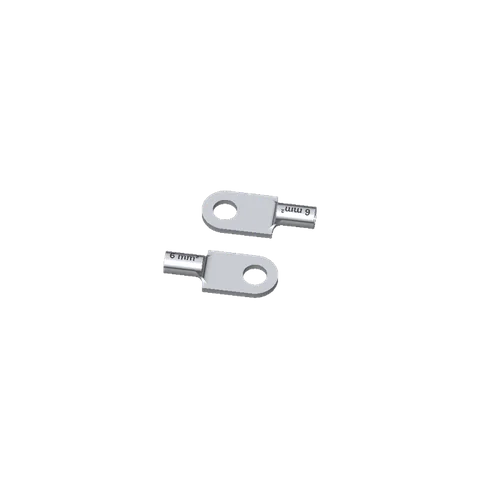
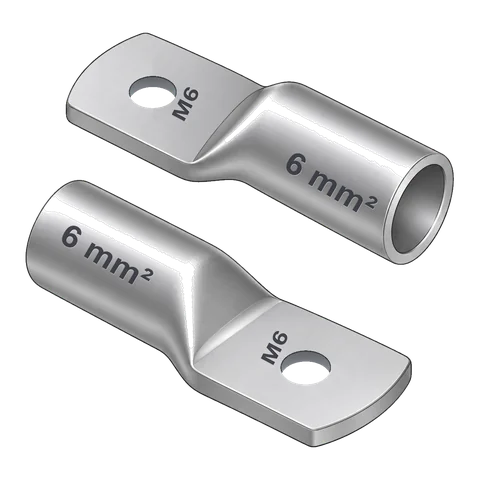
Einkaufsliste: alte Kabelschuh-Form zurück, Loch je Bolzen, Querschnitt auf der Hülse, Bolzen neben dem Loch

diff --git a/einkaufsliste.html b/einkaufsliste.html
@@ -122,7 +122,7 @@
         <div class="wrap">
           <h2>Kabelschuhe &amp; Aderendhülsen</h2><p class="gruppe-text">Passend zu Querschnitt und Bolzengröße.</p>
           <div class="teile-grid">
-            <article class="teil" id="l0ee8b057"><div class="teil-bild"><img src="assets/teile/l0ee8b057.webp?v=921984f3" alt="Kabelschuh 1 mm² M8, isoliert (Symbolbild)" width="480" height="480" loading="lazy"><span>Symbolbild</span></div><h3>Kabelschuh 1 mm² M8, isoliert</h3><a class="product-btn" href="/go/l0ee8b057/amazon" target="_blank" rel="sponsored noopener">Bei Amazon ansehen*</a></article><article class="teil" id="l9c895e29"><div class="teil-bild"><img src="assets/teile/l9c895e29.webp?v=3b521740" alt="Kabelschuh 1,5 mm² Aderendhülse (Symbolbild)" width="480" height="480" loading="lazy"><span>Symbolbild</span></div><h3>Kabelschuh 1,5 mm² Aderendhülse</h3><a class="product-btn" href="/go/l9c895e29/amazon" target="_blank" rel="sponsored noopener">Bei Amazon ansehen*</a></article><article class="teil" id="ld158f763"><div class="teil-bild"><img src="assets/teile/ld158f763.webp?v=8645e7e8" alt="Kabelschuh 2,5 mm² Aderendhülse (Symbolbild)" width="480" height="480" loading="lazy"><span>Symbolbild</span></div><h3>Kabelschuh 2,5 mm² Aderendhülse</h3><a class="product-btn" href="/go/ld158f763/amazon" target="_blank" rel="sponsored noopener">Bei Amazon ansehen*</a></article><article class="teil" id="ldd794bec"><div class="teil-bild"><img src="assets/teile/ldd794bec.webp?v=787876a4" alt="Kabelschuh 4 mm² Aderendhülse (Symbolbild)" width="480" height="480" loading="lazy"><span>Symbolbild</span></div><h3>Kabelschuh 4 mm² Aderendhülse</h3><a class="product-btn" href="/go/ldd794bec/amazon" target="_blank" rel="sponsored noopener">Bei Amazon ansehen*</a></article><article class="teil" id="leb878ae2"><div class="teil-bild"><img src="assets/teile/leb878ae2.webp?v=19616eb6" alt="Kabelschuh 4 mm² M6 (Symbolbild)" width="480" height="480" loading="lazy"><span>Symbolbild</span></div><h3>Kabelschuh 4 mm² M6</h3><a class="product-btn" href="/go/leb878ae2/amazon" target="_blank" rel="sponsored noopener">Bei Amazon ansehen*</a></article><article class="teil" id="lfa4b1c29"><div class="teil-bild"><img src="assets/teile/lfa4b1c29.webp?v=134d515b" alt="Kabelschuh 4 mm² M8 (Symbolbild)" width="480" height="480" loading="lazy"><span>Symbolbild</span></div><h3>Kabelschuh 4 mm² M8</h3><a class="product-btn" href="/go/lfa4b1c29/amazon" target="_blank" rel="sponsored noopener">Bei Amazon ansehen*</a></article><article class="teil" id="l44b7245e"><div class="teil-bild"><img src="assets/teile/l44b7245e.webp?v=ea3b9699" alt="Kabelschuh 6 mm² Aderendhülse (Symbolbild)" width="480" height="480" loading="lazy"><span>Symbolbild</span></div><h3>Kabelschuh 6 mm² Aderendhülse</h3><a class="product-btn" href="/go/l44b7245e/amazon" target="_blank" rel="sponsored noopener">Bei Amazon ansehen*</a></article><article class="teil" id="l86516439"><div class="teil-bild"><img src="assets/teile/l86516439.webp?v=95c2dc39" alt="Kabelschuh 6 mm² M6 (Symbolbild)" width="480" height="480" loading="lazy"><span>Symbolbild</span></div><h3>Kabelschuh 6 mm² M6</h3><a class="product-btn" href="/go/l86516439/amazon" target="_blank" rel="sponsored noopener">Bei Amazon ansehen*</a></article><article class="teil" id="l71398a24"><div class="teil-bild"><img src="assets/teile/l71398a24.webp?v=6ce5a287" alt="Kabelschuh 6 mm² M8 (Symbolbild)" width="480" height="480" loading="lazy"><span>Symbolbild</span></div><h3>Kabelschuh 6 mm² M8</h3><a class="product-btn" href="/go/l71398a24/amazon" target="_blank" rel="sponsored noopener">Bei Amazon ansehen*</a></article><article class="teil" id="la7ef4dd4"><div class="teil-bild"><img src="assets/teile/la7ef4dd4.webp?v=8645e7e8" alt="Kabelschuh 16 mm² Aderendhülse (Symbolbild)" width="480" height="480" loading="lazy"><span>Symbolbild</span></div><h3>Kabelschuh 16 mm² Aderendhülse</h3><a class="product-btn" href="/go/la7ef4dd4/amazon" target="_blank" rel="sponsored noopener">Bei Amazon ansehen*</a></article><article class="teil" id="l122732b5"><div class="teil-bild"><img src="assets/teile/l122732b5.webp?v=6f321cc4" alt="Kabelschuh 16 mm² M6 (Symbolbild)" width="480" height="480" loading="lazy"><span>Symbolbild</span></div><h3>Kabelschuh 16 mm² M6</h3><a class="product-btn" href="/go/l122732b5/amazon" target="_blank" rel="sponsored noopener">Bei Amazon ansehen*</a></article><article class="teil" id="l45be236d"><div class="teil-bild"><img src="assets/teile/l45be236d.webp?v=f33efc4b" alt="Kabelschuh 16 mm² M8 (Symbolbild)" width="480" height="480" loading="lazy"><span>Symbolbild</span></div><h3>Kabelschuh 16 mm² M8</h3><a class="product-btn" href="/go/l45be236d/amazon" target="_blank" rel="sponsored noopener">Bei Amazon ansehen*</a></article><article class="teil" id="l443b8965"><div class="teil-bild"><img src="assets/teile/l443b8965.webp?v=ba0e0cfc" alt="Kabelschuh 16 mm² Stiftkabelschuh (Symbolbild)" width="480" height="480" loading="lazy"><span>Symbolbild</span></div><h3>Kabelschuh 16 mm² Stiftkabelschuh</h3><a class="product-btn" href="/go/l443b8965/amazon" target="_blank" rel="sponsored noopener">Bei Amazon ansehen*</a></article><article class="teil" id="l97affb2a"><div class="teil-bild"><img src="assets/teile/l97affb2a.webp?v=f1c2fdc2" alt="Kabelschuh 25 mm² M8 (Symbolbild)" width="480" height="480" loading="lazy"><span>Symbolbild</span></div><h3>Kabelschuh 25 mm² M8</h3><a class="product-btn" href="/go/l97affb2a/amazon" target="_blank" rel="sponsored noopener">Bei Amazon ansehen*</a></article><article class="teil" id="l3556a69f"><div class="teil-bild"><img src="assets/teile/l3556a69f.webp?v=158de4ce" alt="Kabelschuh 25 mm² M10 (Symbolbild)" width="480" height="480" loading="lazy"><span>Symbolbild</span></div><h3>Kabelschuh 25 mm² M10</h3><a class="product-btn" href="/go/l3556a69f/amazon" target="_blank" rel="sponsored noopener">Bei Amazon ansehen*</a></article><article class="teil" id="lce919ae8"><div class="teil-bild"><img src="assets/teile/lce919ae8.webp?v=311e4a7d" alt="Kabelschuh 35 mm² M6 (Symbolbild)" width="480" height="480" loading="lazy"><span>Symbolbild</span></div><h3>Kabelschuh 35 mm² M6</h3><a class="product-btn" href="/go/lce919ae8/amazon" target="_blank" rel="sponsored noopener">Bei Amazon ansehen*</a></article><article class="teil" id="le192f96b"><div class="teil-bild"><img src="assets/teile/le192f96b.webp?v=9f1d815d" alt="Kabelschuh 35 mm² M8 (Symbolbild)" width="480" height="480" loading="lazy"><span>Symbolbild</span></div><h3>Kabelschuh 35 mm² M8</h3><a class="product-btn" href="/go/le192f96b/amazon" target="_blank" rel="sponsored noopener">Bei Amazon ansehen*</a></article><article class="teil" id="l474d6610"><div class="teil-bild"><img src="assets/teile/l474d6610.webp?v=f4257978" alt="Kabelschuh 35 mm² M10 (Symbolbild)" width="480" height="480" loading="lazy"><span>Symbolbild</span></div><h3>Kabelschuh 35 mm² M10</h3><a class="product-btn" href="/go/l474d6610/amazon" target="_blank" rel="sponsored noopener">Bei Amazon ansehen*</a></article><article class="teil" id="la0077ab2"><div class="teil-bild"><img src="assets/teile/la0077ab2.webp?v=837d9946" alt="Kabelschuh 70 mm² M8 (Symbolbild)" width="480" height="480" loading="lazy"><span>Symbolbild</span></div><h3>Kabelschuh 70 mm² M8</h3><a class="product-btn" href="/go/la0077ab2/amazon" target="_blank" rel="sponsored noopener">Bei Amazon ansehen*</a></article><article class="teil" id="lb5de46aa"><div class="teil-bild"><img src="assets/teile/lb5de46aa.webp?v=7286c58c" alt="Kabelschuh 70 mm² M10 (Symbolbild)" width="480" height="480" loading="lazy"><span>Symbolbild</span></div><h3>Kabelschuh 70 mm² M10</h3><a class="product-btn" href="/go/lb5de46aa/amazon" target="_blank" rel="sponsored noopener">Bei Amazon ansehen*</a></article><article class="teil" id="laf90c26b"><div class="teil-bild"><img src="assets/teile/laf90c26b.webp?v=3f0a53d4" alt="Kabelschuh 95 mm² M8 (Symbolbild)" width="480" height="480" loading="lazy"><span>Symbolbild</span></div><h3>Kabelschuh 95 mm² M8</h3><a class="product-btn" href="/go/laf90c26b/amazon" target="_blank" rel="sponsored noopener">Bei Amazon ansehen*</a></article><article class="teil" id="lb65222f0"><div class="teil-bild"><img src="assets/teile/lb65222f0.webp?v=a2dbddd0" alt="Kabelschuh 95 mm² M10 (Symbolbild)" width="480" height="480" loading="lazy"><span>Symbolbild</span></div><h3>Kabelschuh 95 mm² M10</h3><a class="product-btn" href="/go/lb65222f0/amazon" target="_blank" rel="sponsored noopener">Bei Amazon ansehen*</a></article>
+            <article class="teil" id="l0ee8b057"><div class="teil-bild"><img src="assets/teile/l0ee8b057.webp?v=921984f3" alt="Kabelschuh 1 mm² M8, isoliert (Symbolbild)" width="480" height="480" loading="lazy"><span>Symbolbild</span></div><h3>Kabelschuh 1 mm² M8, isoliert</h3><a class="product-btn" href="/go/l0ee8b057/amazon" target="_blank" rel="sponsored noopener">Bei Amazon ansehen*</a></article><article class="teil" id="l9c895e29"><div class="teil-bild"><img src="assets/teile/l9c895e29.webp?v=3b521740" alt="Kabelschuh 1,5 mm² Aderendhülse (Symbolbild)" width="480" height="480" loading="lazy"><span>Symbolbild</span></div><h3>Kabelschuh 1,5 mm² Aderendhülse</h3><a class="product-btn" href="/go/l9c895e29/amazon" target="_blank" rel="sponsored noopener">Bei Amazon ansehen*</a></article><article class="teil" id="ld158f763"><div class="teil-bild"><img src="assets/teile/ld158f763.webp?v=8645e7e8" alt="Kabelschuh 2,5 mm² Aderendhülse (Symbolbild)" width="480" height="480" loading="lazy"><span>Symbolbild</span></div><h3>Kabelschuh 2,5 mm² Aderendhülse</h3><a class="product-btn" href="/go/ld158f763/amazon" target="_blank" rel="sponsored noopener">Bei Amazon ansehen*</a></article><article class="teil" id="ldd794bec"><div class="teil-bild"><img src="assets/teile/ldd794bec.webp?v=787876a4" alt="Kabelschuh 4 mm² Aderendhülse (Symbolbild)" width="480" height="480" loading="lazy"><span>Symbolbild</span></div><h3>Kabelschuh 4 mm² Aderendhülse</h3><a class="product-btn" href="/go/ldd794bec/amazon" target="_blank" rel="sponsored noopener">Bei Amazon ansehen*</a></article><article class="teil" id="leb878ae2"><div class="teil-bild"><img src="assets/teile/leb878ae2.webp?v=ef03eb4f" alt="Kabelschuh 4 mm² M6 (Symbolbild)" width="480" height="480" loading="lazy"><span>Symbolbild</span></div><h3>Kabelschuh 4 mm² M6</h3><a class="product-btn" href="/go/leb878ae2/amazon" target="_blank" rel="sponsored noopener">Bei Amazon ansehen*</a></article><article class="teil" id="lfa4b1c29"><div class="teil-bild"><img src="assets/teile/lfa4b1c29.webp?v=2804633e" alt="Kabelschuh 4 mm² M8 (Symbolbild)" width="480" height="480" loading="lazy"><span>Symbolbild</span></div><h3>Kabelschuh 4 mm² M8</h3><a class="product-btn" href="/go/lfa4b1c29/amazon" target="_blank" rel="sponsored noopener">Bei Amazon ansehen*</a></article><article class="teil" id="l44b7245e"><div class="teil-bild"><img src="assets/teile/l44b7245e.webp?v=ea3b9699" alt="Kabelschuh 6 mm² Aderendhülse (Symbolbild)" width="480" height="480" loading="lazy"><span>Symbolbild</span></div><h3>Kabelschuh 6 mm² Aderendhülse</h3><a class="product-btn" href="/go/l44b7245e/amazon" target="_blank" rel="sponsored noopener">Bei Amazon ansehen*</a></article><article class="teil" id="l86516439"><div class="teil-bild"><img src="assets/teile/l86516439.webp?v=784e08f0" alt="Kabelschuh 6 mm² M6 (Symbolbild)" width="480" height="480" loading="lazy"><span>Symbolbild</span></div><h3>Kabelschuh 6 mm² M6</h3><a class="product-btn" href="/go/l86516439/amazon" target="_blank" rel="sponsored noopener">Bei Amazon ansehen*</a></article><article class="teil" id="l71398a24"><div class="teil-bild"><img src="assets/teile/l71398a24.webp?v=ba89f219" alt="Kabelschuh 6 mm² M8 (Symbolbild)" width="480" height="480" loading="lazy"><span>Symbolbild</span></div><h3>Kabelschuh 6 mm² M8</h3><a class="product-btn" href="/go/l71398a24/amazon" target="_blank" rel="sponsored noopener">Bei Amazon ansehen*</a></article><article class="teil" id="la7ef4dd4"><div class="teil-bild"><img src="assets/teile/la7ef4dd4.webp?v=8645e7e8" alt="Kabelschuh 16 mm² Aderendhülse (Symbolbild)" width="480" height="480" loading="lazy"><span>Symbolbild</span></div><h3>Kabelschuh 16 mm² Aderendhülse</h3><a class="product-btn" href="/go/la7ef4dd4/amazon" target="_blank" rel="sponsored noopener">Bei Amazon ansehen*</a></article><article class="teil" id="l122732b5"><div class="teil-bild"><img src="assets/teile/l122732b5.webp?v=563066ea" alt="Kabelschuh 16 mm² M6 (Symbolbild)" width="480" height="480" loading="lazy"><span>Symbolbild</span></div><h3>Kabelschuh 16 mm² M6</h3><a class="product-btn" href="/go/l122732b5/amazon" target="_blank" rel="sponsored noopener">Bei Amazon ansehen*</a></article><article class="teil" id="l45be236d"><div class="teil-bild"><img src="assets/teile/l45be236d.webp?v=1c4a733e" alt="Kabelschuh 16 mm² M8 (Symbolbild)" width="480" height="480" loading="lazy"><span>Symbolbild</span></div><h3>Kabelschuh 16 mm² M8</h3><a class="product-btn" href="/go/l45be236d/amazon" target="_blank" rel="sponsored noopener">Bei Amazon ansehen*</a></article><article class="teil" id="l443b8965"><div class="teil-bild"><img src="assets/teile/l443b8965.webp?v=ba0e0cfc" alt="Kabelschuh 16 mm² Stiftkabelschuh (Symbolbild)" width="480" height="480" loading="lazy"><span>Symbolbild</span></div><h3>Kabelschuh 16 mm² Stiftkabelschuh</h3><a class="product-btn" href="/go/l443b8965/amazon" target="_blank" rel="sponsored noopener">Bei Amazon ansehen*</a></article><article class="teil" id="l97affb2a"><div class="teil-bild"><img src="assets/teile/l97affb2a.webp?v=5d912f8a" alt="Kabelschuh 25 mm² M8 (Symbolbild)" width="480" height="480" loading="lazy"><span>Symbolbild</span></div><h3>Kabelschuh 25 mm² M8</h3><a class="product-btn" href="/go/l97affb2a/amazon" target="_blank" rel="sponsored noopener">Bei Amazon ansehen*</a></article><article class="teil" id="l3556a69f"><div class="teil-bild"><img src="assets/teile/l3556a69f.webp?v=a054315f" alt="Kabelschuh 25 mm² M10 (Symbolbild)" width="480" height="480" loading="lazy"><span>Symbolbild</span></div><h3>Kabelschuh 25 mm² M10</h3><a class="product-btn" href="/go/l3556a69f/amazon" target="_blank" rel="sponsored noopener">Bei Amazon ansehen*</a></article><article class="teil" id="lce919ae8"><div class="teil-bild"><img src="assets/teile/lce919ae8.webp?v=88158e07" alt="Kabelschuh 35 mm² M6 (Symbolbild)" width="480" height="480" loading="lazy"><span>Symbolbild</span></div><h3>Kabelschuh 35 mm² M6</h3><a class="product-btn" href="/go/lce919ae8/amazon" target="_blank" rel="sponsored noopener">Bei Amazon ansehen*</a></article><article class="teil" id="le192f96b"><div class="teil-bild"><img src="assets/teile/le192f96b.webp?v=bbbab002" alt="Kabelschuh 35 mm² M8 (Symbolbild)" width="480" height="480" loading="lazy"><span>Symbolbild</span></div><h3>Kabelschuh 35 mm² M8</h3><a class="product-btn" href="/go/le192f96b/amazon" target="_blank" rel="sponsored noopener">Bei Amazon ansehen*</a></article><article class="teil" id="l474d6610"><div class="teil-bild"><img src="assets/teile/l474d6610.webp?v=7d2938ba" alt="Kabelschuh 35 mm² M10 (Symbolbild)" width="480" height="480" loading="lazy"><span>Symbolbild</span></div><h3>Kabelschuh 35 mm² M10</h3><a class="product-btn" href="/go/l474d6610/amazon" target="_blank" rel="sponsored noopener">Bei Amazon ansehen*</a></article><article class="teil" id="la0077ab2"><div class="teil-bild"><img src="assets/teile/la0077ab2.webp?v=46c89524" alt="Kabelschuh 70 mm² M8 (Symbolbild)" width="480" height="480" loading="lazy"><span>Symbolbild</span></div><h3>Kabelschuh 70 mm² M8</h3><a class="product-btn" href="/go/la0077ab2/amazon" target="_blank" rel="sponsored noopener">Bei Amazon ansehen*</a></article><article class="teil" id="lb5de46aa"><div class="teil-bild"><img src="assets/teile/lb5de46aa.webp?v=b7ce0ab7" alt="Kabelschuh 70 mm² M10 (Symbolbild)" width="480" height="480" loading="lazy"><span>Symbolbild</span></div><h3>Kabelschuh 70 mm² M10</h3><a class="product-btn" href="/go/lb5de46aa/amazon" target="_blank" rel="sponsored noopener">Bei Amazon ansehen*</a></article><article class="teil" id="laf90c26b"><div class="teil-bild"><img src="assets/teile/laf90c26b.webp?v=b9c4db03" alt="Kabelschuh 95 mm² M8 (Symbolbild)" width="480" height="480" loading="lazy"><span>Symbolbild</span></div><h3>Kabelschuh 95 mm² M8</h3><a class="product-btn" href="/go/laf90c26b/amazon" target="_blank" rel="sponsored noopener">Bei Amazon ansehen*</a></article><article class="teil" id="lb65222f0"><div class="teil-bild"><img src="assets/teile/lb65222f0.webp?v=8cf448ff" alt="Kabelschuh 95 mm² M10 (Symbolbild)" width="480" height="480" loading="lazy"><span>Symbolbild</span></div><h3>Kabelschuh 95 mm² M10</h3><a class="product-btn" href="/go/lb65222f0/amazon" target="_blank" rel="sponsored noopener">Bei Amazon ansehen*</a></article>
           </div>
         </div>
       </section>
